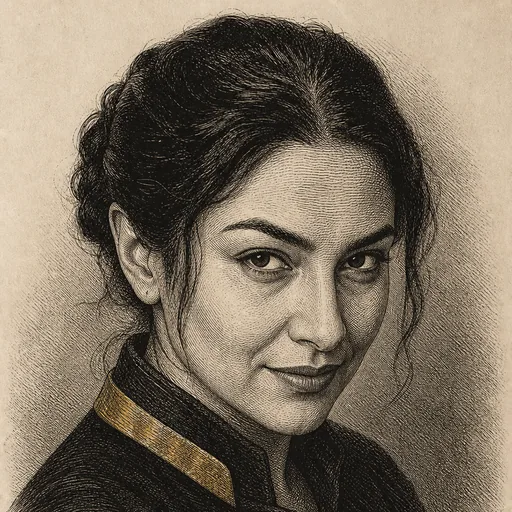
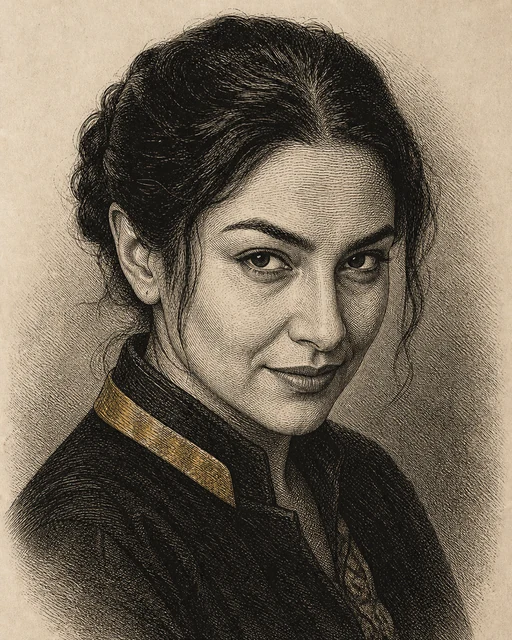
Frame the portraits 4:5 instead of cropping them square
Squaring them threw away a fifth to a third of each image. Ostad's source is
2:3, so a square crop took his coat off entirely - and in portraits like these
the clothing is half the character: Keyvan's waistcoat, Mehrdad's jacket,
Parvaneh's scarf.

The frame now fits the pictures rather than the other way round. 4:5 costs
almost nothing: four of six lose no pixels at all, Davoud loses 10% of his width
and Ostad 17% of his height. They are shown as framed prints rather than
circular avatars, which suits engravings better than an avatar crop did.

Worth recording that compression was investigated first and was not the
problem - at 1:1 a lossless 512, WebP q82, q95 and a downscaled 1024 are near
indistinguishable. The loss was content, not fidelity.

diff --git a/apps/ui/src/ladder/Ladder.tsx b/apps/ui/src/ladder/Ladder.tsx
@@ -61,20 +61,26 @@ export function Ladder({
                 background: 'var(--app-panel)',
               }}
             >
+              {/*
+                A framed print, not an avatar. These are portrait-format
+                engravings; a circular crop threw away a third of the taller
+                ones — Ostad lost his coat entirely — and the 4:5 frame they
+                were drawn in costs almost nothing to keep.
+              */}
               <div className="relative">
                 <img
                   src={portraitFor(o.id)}
                   alt=""
-                  width={128}
-                  height={128}
-                  className="rounded-full"
+                  width={132}
+                  height={165}
+                  className="rounded-sm object-cover"
                   style={{ border: '1px solid var(--inlay)' }}
                 />
                 {beaten && (
                   <span
-                    className="absolute -bottom-1 flex h-6 w-6 items-center justify-center rounded-full text-xs"
+                    className="absolute -bottom-2 flex h-6 w-6 items-center justify-center rounded-full text-xs"
                     style={{
-                      [fa ? 'left' : 'right']: '-0.25rem',
+                      [fa ? 'left' : 'right']: '-0.5rem',
                       background: 'var(--inlay)',
                       color: 'var(--app-bg)',
                     }}

diff --git a/apps/ui/src/assets/portraits/PROVENANCE.md b/apps/ui/src/assets/portraits/PROVENANCE.md
@@ -29,23 +29,34 @@ They are opponents the player is meant to enjoy meeting, not obstacles.
 
 512×512 WebP. Regenerate from the briefs above if a larger size is ever needed.
 
-## Square them by CROPPING, never by scaling
+## Keep the 4:5 frame they were drawn in
 
 **The image model does not honour a requested square size.** Asking for
-1024×1024 returned 1122×1402, 1024×1536 and 1183×1329 — all portrait. Scaling
-those to 512×512 squashes them, and every face comes out subtly widened. It is
-not obvious in isolation and is very obvious once someone says it.
+1024×1024 returned 1122×1402, 1024×1536 and 1183×1329 — all portrait.
 
-Crop a square off the **top** — these are head-and-shoulders compositions, so a
-centred crop takes the top of the head off:
+Two mistakes came out of that, in order. Scaling them to 512×512 squashed every
+face; that is obvious once someone says it. Cropping them square instead fixed
+the proportions but threw away a fifth to a third of each image — Ostad, whose
+source is 2:3, lost his coat entirely, and these are portraits where the
+clothing is half the character.
+
+So the frame fits the pictures rather than the other way round. **4:5 costs
+almost nothing**: four of the six lose no pixels at all, Davoud loses 10% of his
+width and Ostad 17% of his height, against 20–33% for a square.
 
 ```
-ffmpeg -i in.png -vf "crop=w=min(iw\,ih):h=min(iw\,ih):x=(iw-min(iw\,ih))/2:y=0,\
-scale=512:512:flags=lanczos" -frames:v 1 out.png
+ffmpeg -i in.png -vf \
+  "crop=w='min(iw,ih*0.8)':h='min(ih,iw/0.8)':x='(iw-min(iw,ih*0.8))/2':y=0,\
+   scale=512:640:flags=lanczos" -frames:v 1 out.png
 ```
 
-Check the aspect ratio of whatever the model returns before converting. Do not
-assume the size you asked for is the size you got.
+Tall images crop from the top, which keeps the head and as much of the clothing
+as the ratio allows. They are shown as framed prints, not circular avatars — a
+circle would undo all of this.
+
+Check the aspect ratio of whatever the model returns before converting, and
+check what the crop actually removed. Do not assume the size you asked for is
+the size you got.
 
 
 ## A note on likeness
